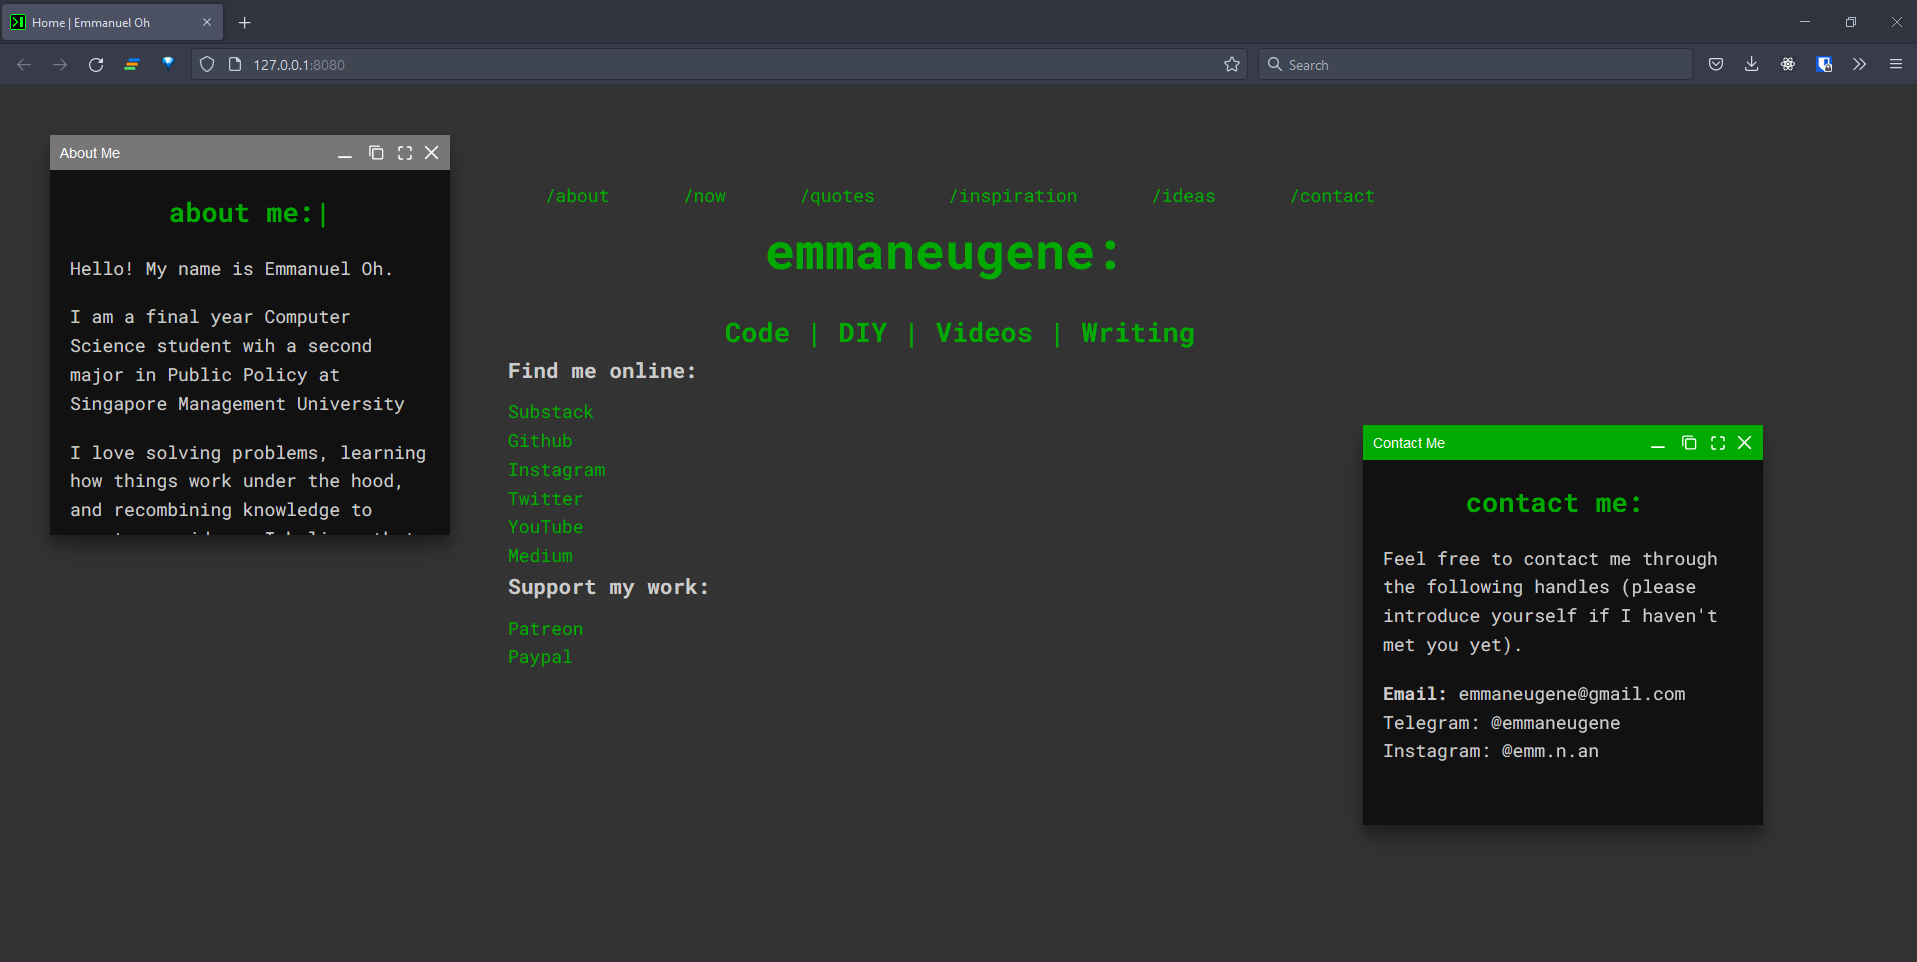
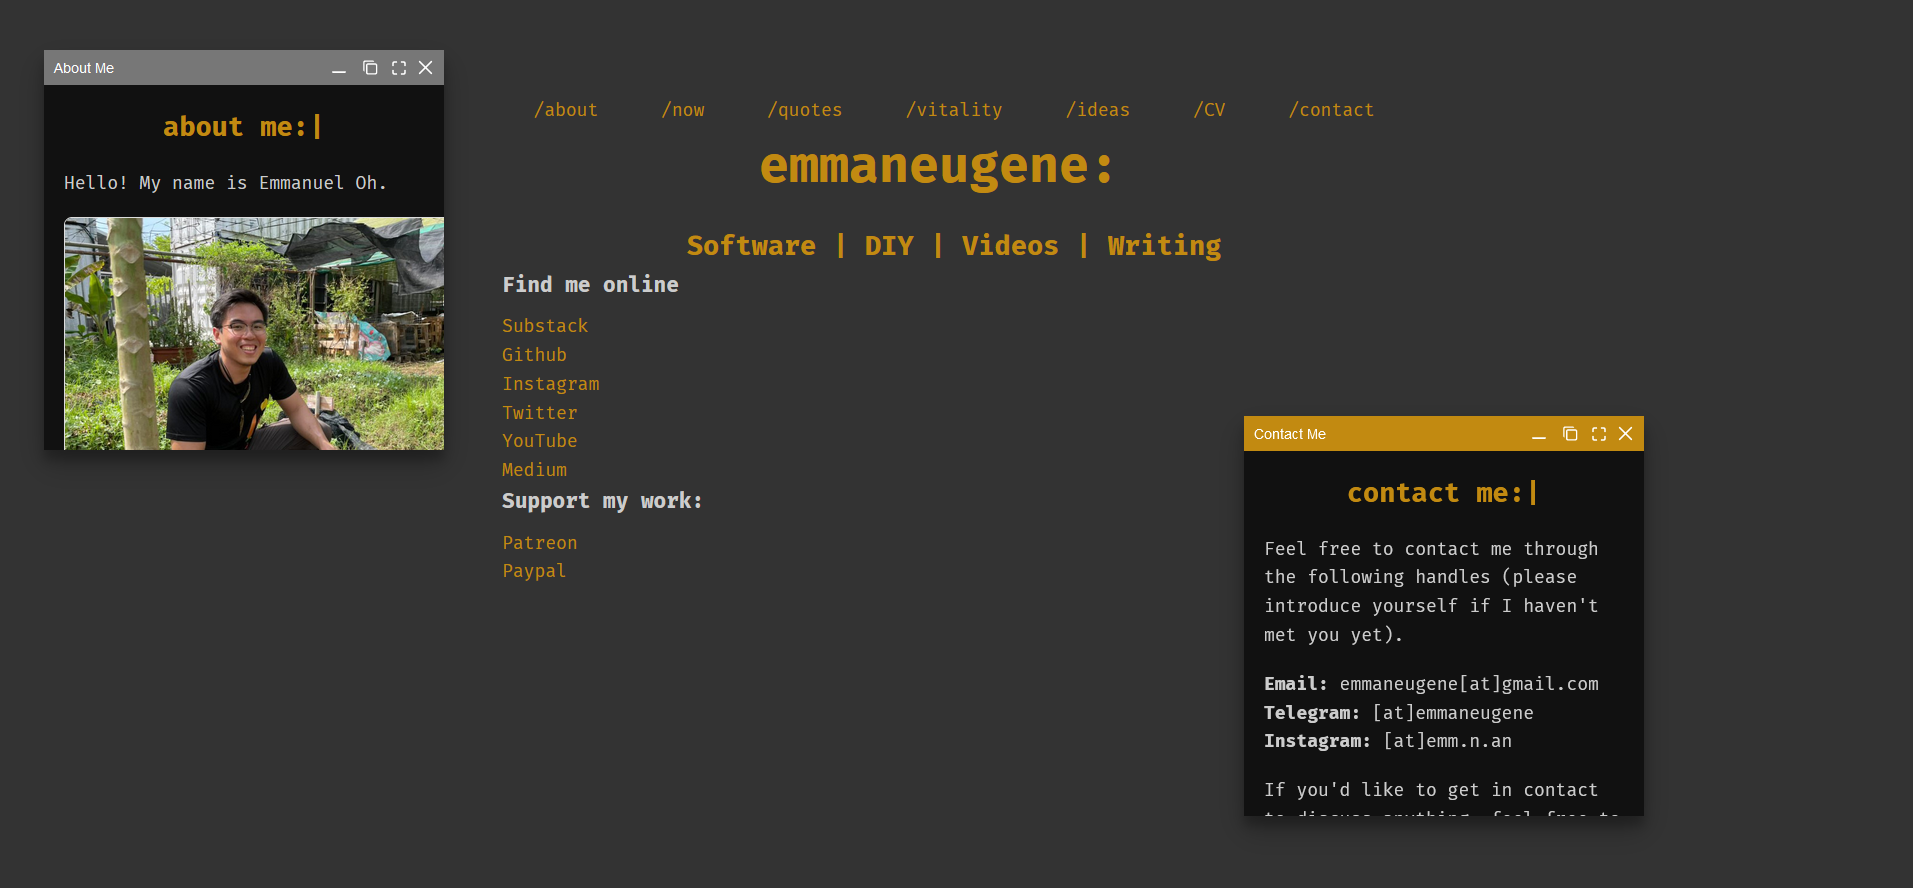
Change font to Fira, update colors

diff --git a/js/main.js b/js/main.js
@@ -13,6 +13,9 @@ const vitalityContent = document.querySelector('#vitality-content');
 const ideasContent = document.querySelector('#ideas-content');
 const contactContent = document.querySelector('#contact-content');
 
+const activeBgColor = '#c28a11';
+const inactiveBgColor = '#777'
+
 about.addEventListener('click', () => {
   const aboutBox = new WinBox({
     title: 'About Me',
@@ -26,10 +29,10 @@ about.addEventListener('click', () => {
     left: 50,
     mount: aboutContent,
     onfocus: function () {
-      this.setBackground('#00aa00')
+      this.setBackground(activeBgColor)
     },
     onblur: function () {
-      this.setBackground('#777')
+      this.setBackground(inactiveBgColor)
     },
   })
 })
@@ -47,10 +50,10 @@ now.addEventListener('click', () => {
     left: 50,
     mount: nowContent,
     onfocus: function () {
-      this.setBackground('#00aa00')
+      this.setBackground(activeBgColor)
     },
     onblur: function () {
-      this.setBackground('#777')
+      this.setBackground(inactiveBgColor)
     },
   })
 })
@@ -68,10 +71,10 @@ quotes.addEventListener('click', () => {
     left: 50,
     mount: quotesContent,
     onfocus: function () {
-      this.setBackground('#00aa00')
+      this.setBackground(activeBgColor)
     },
     onblur: function () {
-      this.setBackground('#777')
+      this.setBackground(inactiveBgColor)
     },
   })
 })
@@ -89,10 +92,10 @@ vitality.addEventListener('click', () => {
     left: 50,
     mount: vitalityContent,
     onfocus: function () {
-      this.setBackground('#00aa00')
+      this.setBackground(activeBgColor)
     },
     onblur: function () {
-      this.setBackground('#777')
+      this.setBackground(inactiveBgColor)
     },
   })
 })
@@ -110,10 +113,10 @@ ideas.addEventListener('click', () => {
     left: 50,
     mount: ideasContent,
     onfocus: function () {
-      this.setBackground('#00aa00')
+      this.setBackground(activeBgColor)
     },
     onblur: function () {
-      this.setBackground('#777')
+      this.setBackground(inactiveBgColor)
     },
   })
 })
@@ -131,10 +134,10 @@ contact.addEventListener('click', () => {
     left: 50,
     mount: contactContent,
     onfocus: function () {
-      this.setBackground('#00aa00')
+      this.setBackground(activeBgColor)
     },
     onblur: function () {
-      this.setBackground('#777')
+      this.setBackground(inactiveBgColor)
     },
   })
 })

diff --git a/css/style.css b/css/style.css
@@ -1,4 +1,4 @@
-@import url("https://fonts.googleapis.com/css2?family=Roboto+Mono:wght@300;400;700&display=swap");
+@import url("https://fonts.googleapis.com/css2?family=Fira+Mono:wght@300;400;700&display=swap");
 
 * {
   box-sizing: border-box;
@@ -7,11 +7,11 @@
 }
 
 :root {
-  --text-color: #00aa00;
+  --text-color: #c28a11;
 }
 
 body {
-  font-family: "Roboto Mono", sans-serif;
+  font-family: "Fira Mono", sans-serif;
   background-color: #333;
   color: #ccc;
   font-size: 18px;
